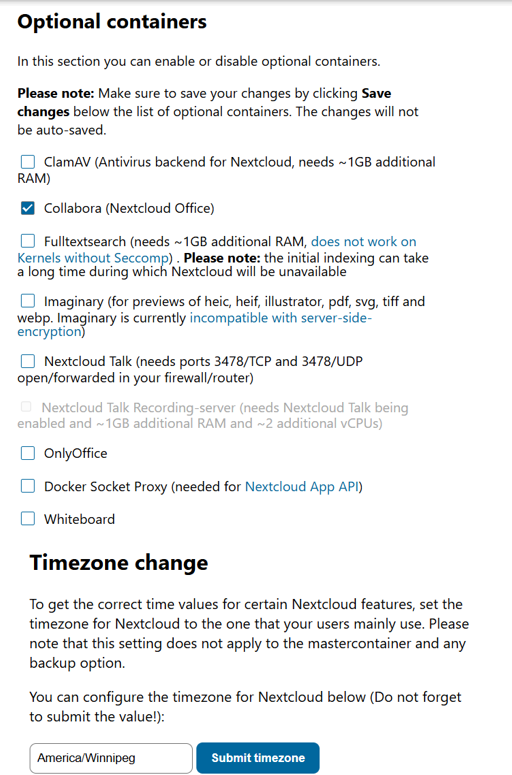
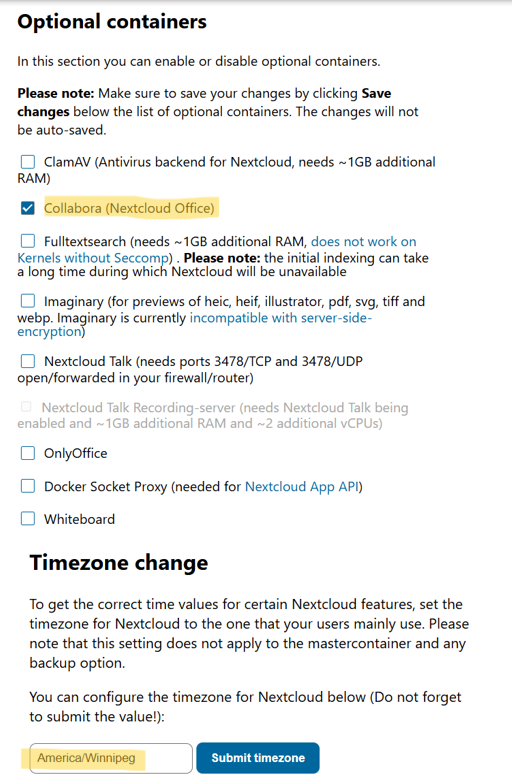
aws nextcloud step6

Changed region(s): [[0.0625, 0.2477, 0.4375, 0.3097], [0.0312, 0.96, 0.2812, 1.0]]

diff --git a/_posts/2026-01-06-Nextcloud-7.md b/_posts/2026-01-06-Nextcloud-7.md
@@ -1,0 +1,97 @@
+---
+layout: post
+title: "Step 6: AMI, Launch Template, and Backup"
+date: 2026-01-06 22:51:00 -0500
+categories: [Cloud, "AWS-Nextcloud-Project"]
+tags: [aws, cloud, nextcloud]
+---
+
+The final step in the deployment phase is to capture the current state of the server. This ensures that I can quickly recover or scale the infrastructure using Amazon Machine Image(AMI) and a Launch Template. This project focuses on ensuring that the system is not only functional but also resilient and recoverable. 
+
+### 6.1 AMI & Launch Template
+
+To ensure that the server can be replicated or recovered instantly, I captured the entire system state into a image.
+
+AMI: I created an AMI named NextcloudAMI. This is a complete snapshot of the Ubuntu OS, Docker engine, and all pre-configured application settings.
+
+![ami1](/assets/img/aws_cloud/ami1.png)
+
+![ami2](/assets/img/aws_cloud/ami2.png)
+
+![ami3](/assets/img/aws_cloud/ami3.png)
+
+Launch Template: I then built a Launch Template using this AMI. It stores all the necessary parameters—such as the Instance Type, Key Pairs, and the NextcloudSecurityGroup. While the AMI captures the software state, the Launch Template acts as a blueprint for the hardware and network configurations needed for an instant deployment. I specifically did not assign a public IP in the template settings, as I intended to use a fixed Elastic IP for the server to maintain a consistent entry point.
+
+![launch_template1](/assets/img/aws_cloud/launch_template1.png)
+
+![launch_template2](/assets/img/aws_cloud/launch_template2.png)
+
+![launch_template3](/assets/img/aws_cloud/launch_template3.png)
+
+![launch_template4](/assets/img/aws_cloud/launch_template4.png)
+
+### 6.2 AWS Backup Strategy
+
+To protect the entire stack from data loss, I implemented a centralized backup strategy using AWS Backup. This ensures that both the system state and the application data are secured automatically.
+
+![backup1](/assets/img/aws_cloud/backup1.png)
+
+Backup Plan: I created a plan named NextcloudBackupPlan. I started with the Daily-35day-Retention template and customized it to include a 1-year retention rule.
+
+![backup2](/assets/img/aws_cloud/backup2.png)
+
+Lifecycle Policy: To manage costs, I configured the plan to transition backups to Cold Storage after 3 months.
+
+I created a resource assignment named NextcloudResources. Instead of backing up everything in the account, I manually selected the specific components for this project: 
+
+EC2 Instance: To back up the root system and OS configurations.  
+EFS Filesystem: To protect the Nextcloud application metadata and database.  
+S3 Bucket: To ensure the primary user data is replicated and safe.  
+
+![backup3](/assets/img/aws_cloud/backup3.png)
+
+![backup4](/assets/img/aws_cloud/backup4.png)
+
+![backup5](/assets/img/aws_cloud/backup5.png)
+
+### 6.3 Disaster Recovery Plan
+
+The following workflow outlines how to recover the Nextcloud service in the event of an EC2 instance failure.
+
+**1. EC2 Instance is Terminated or Corrupted**
+
+Prerequisites:  
+A pre-configured Launch Template exists.  
+An Elastic IP is available.  
+EFS and S3 storage remain intact.  
+
+Recovery Workflow:
+
+Launch a New Instance:  
+Go to EC2 Console -> Launch Templates.  
+Select NextcloudLaunchTemplate and launch the instance.  
+The new instance will automatically launch with the custom AMI (Docker is pre-installed and the EFS volume will mount via the User Data script).  
+
+Re-associate the Elastic IP:  
+Once the new instance is "Running," go to Elastic IPs.  
+Select the Elastic IP -> Associate Elastic IP address.  
+Choose the new instance and associate. This keeps the domain connection seamless without needing to update Duck DNS.  
+
+Service Verification:  
+Wait a few minutes for the Docker containers to start automatically (configured with --restart always).  
+Navigate to the Duck DNS domain. The service should be fully operational with all data and configurations intact.  
+
+
+**2. Restoring from Backup (In case of Data Loss)**
+
+If the EFS or S3 data is lost or corrupted, I can use AWS Backup to roll back.
+
+EFS Restore:  
+Navigate to AWS Backup -> Backup vaults, select the EFS recovery point, and click Restore.  
+If a new EFS ID is generated, update the /etc/fstab on the EC2 instance.  
+
+S3 Restore:  
+Use S3 Versioning to roll back specific files or perform a full bucket restore through the AWS Backup console.  
+
+EBS Restore (AMI):  
+The AMI created previously is the primary recovery method for the server itself. I can launch a new instance directly from this AMI if the Launch Template is unavailable.  
